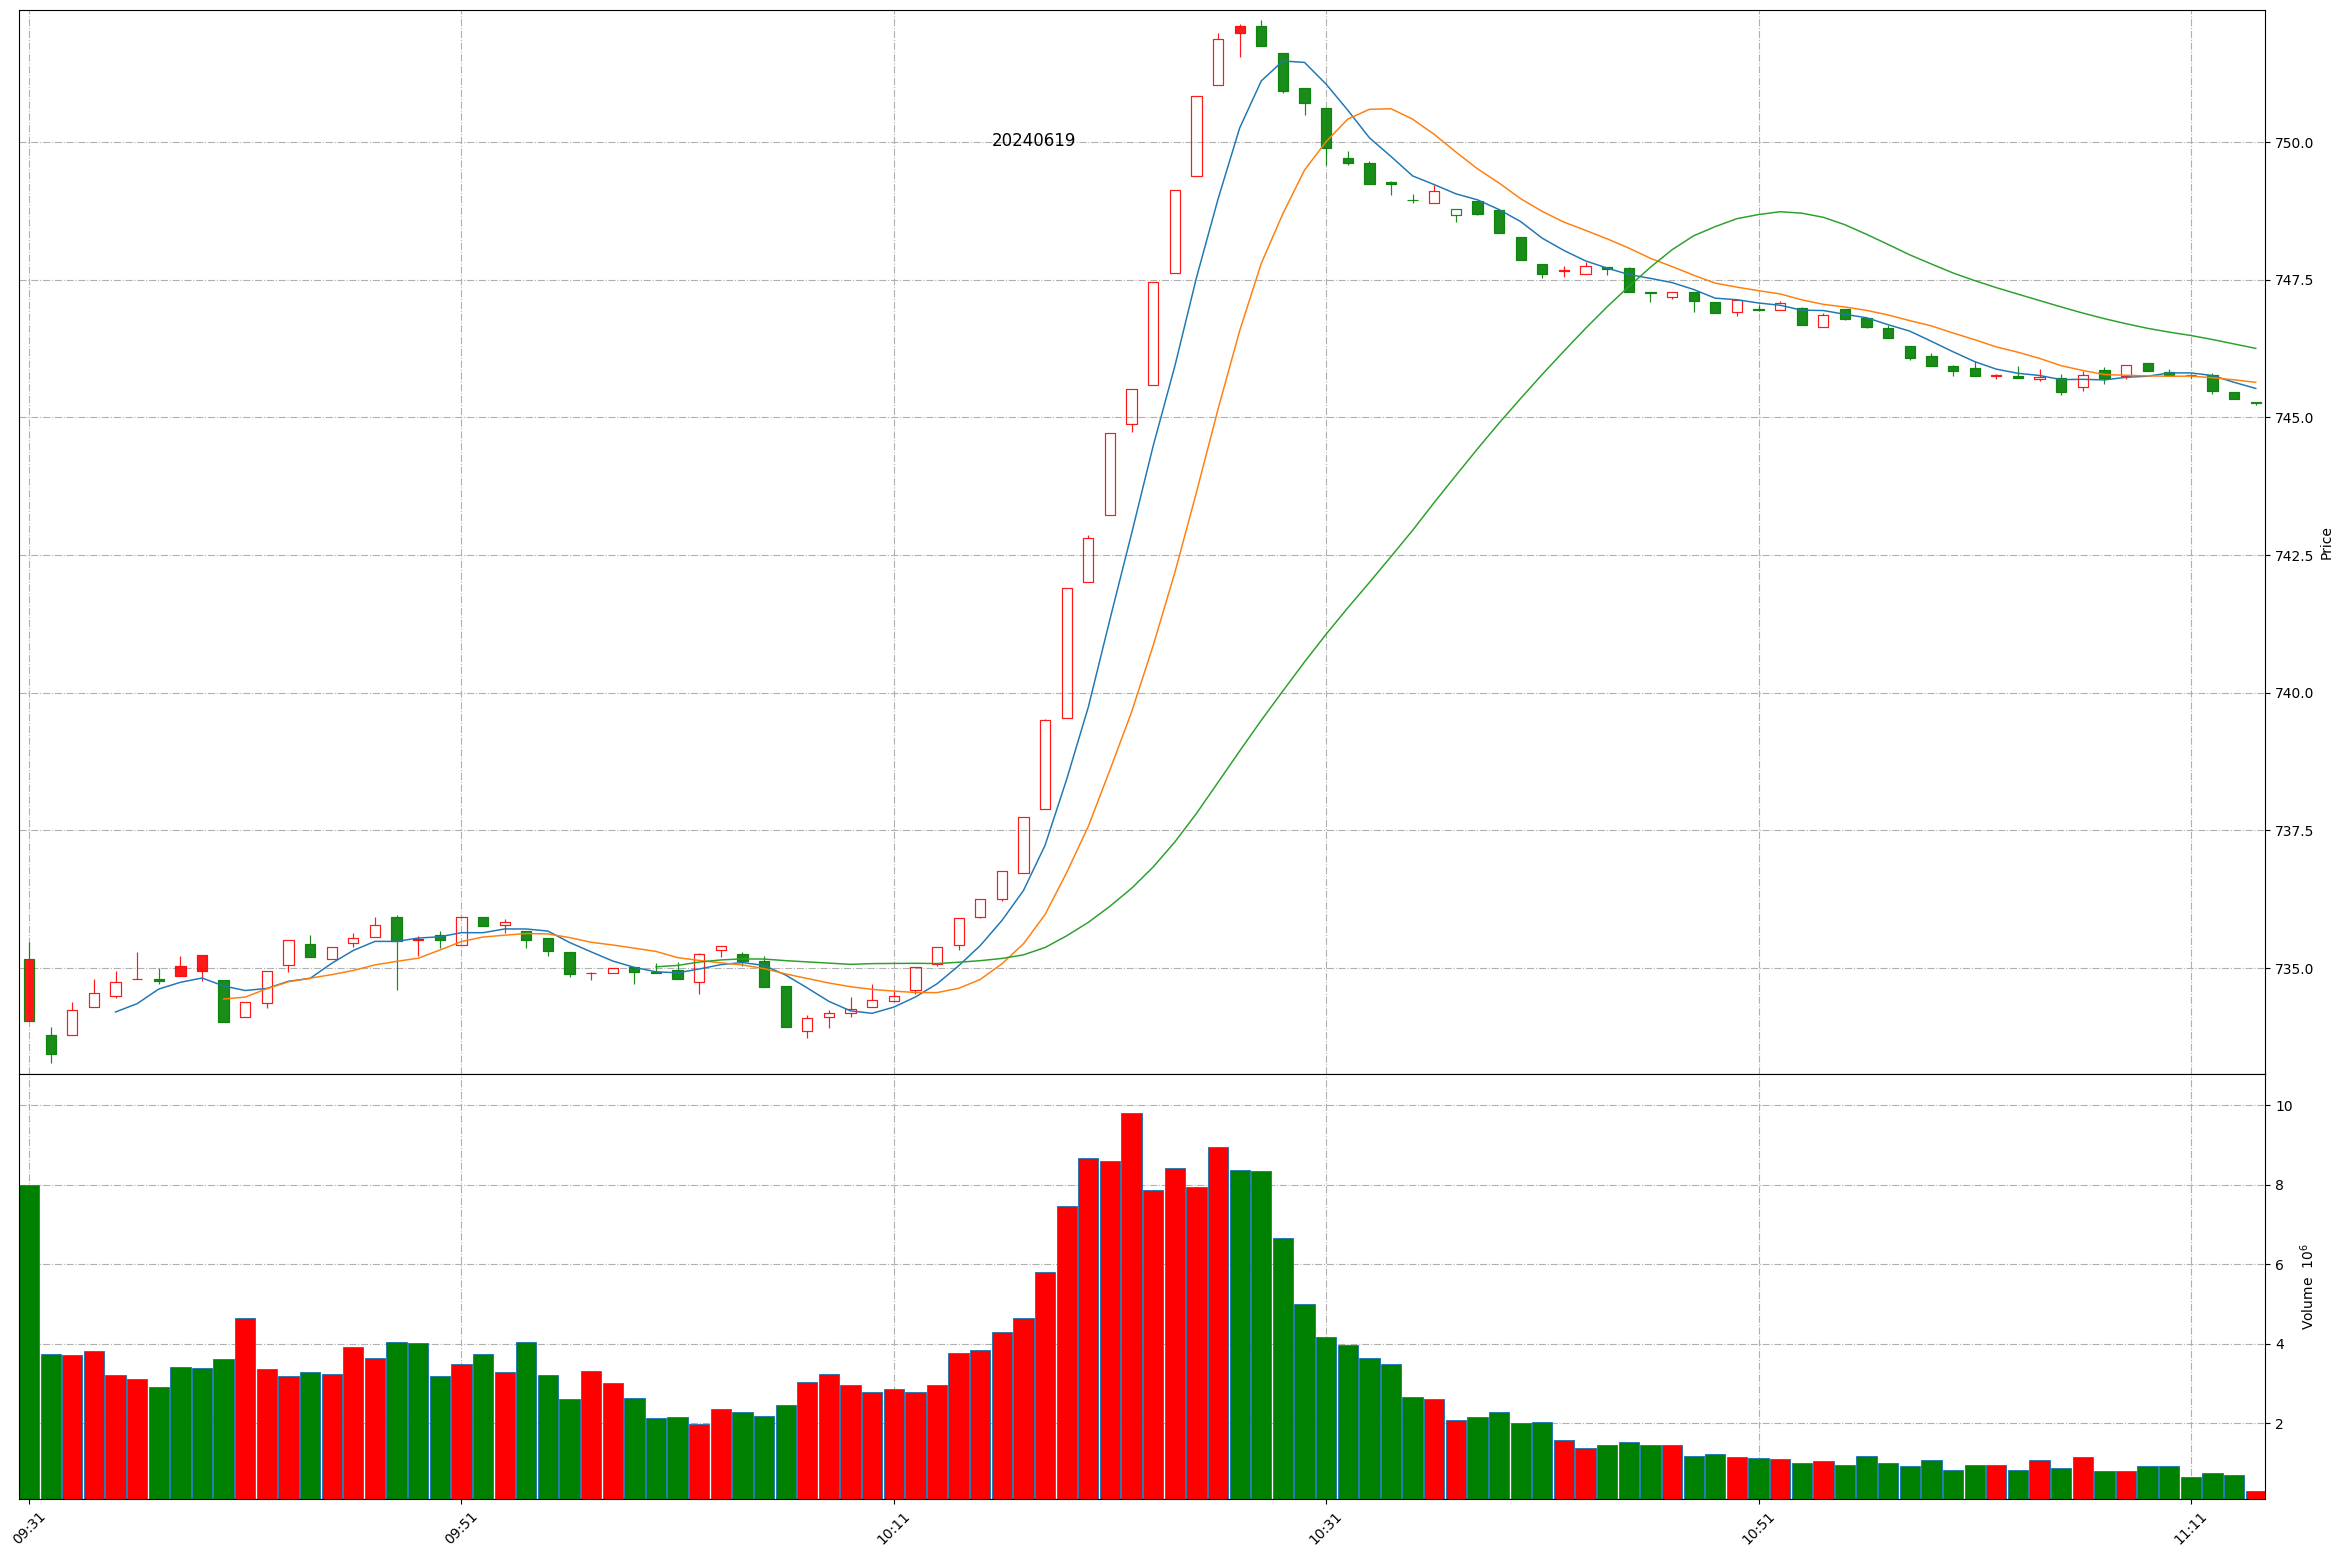
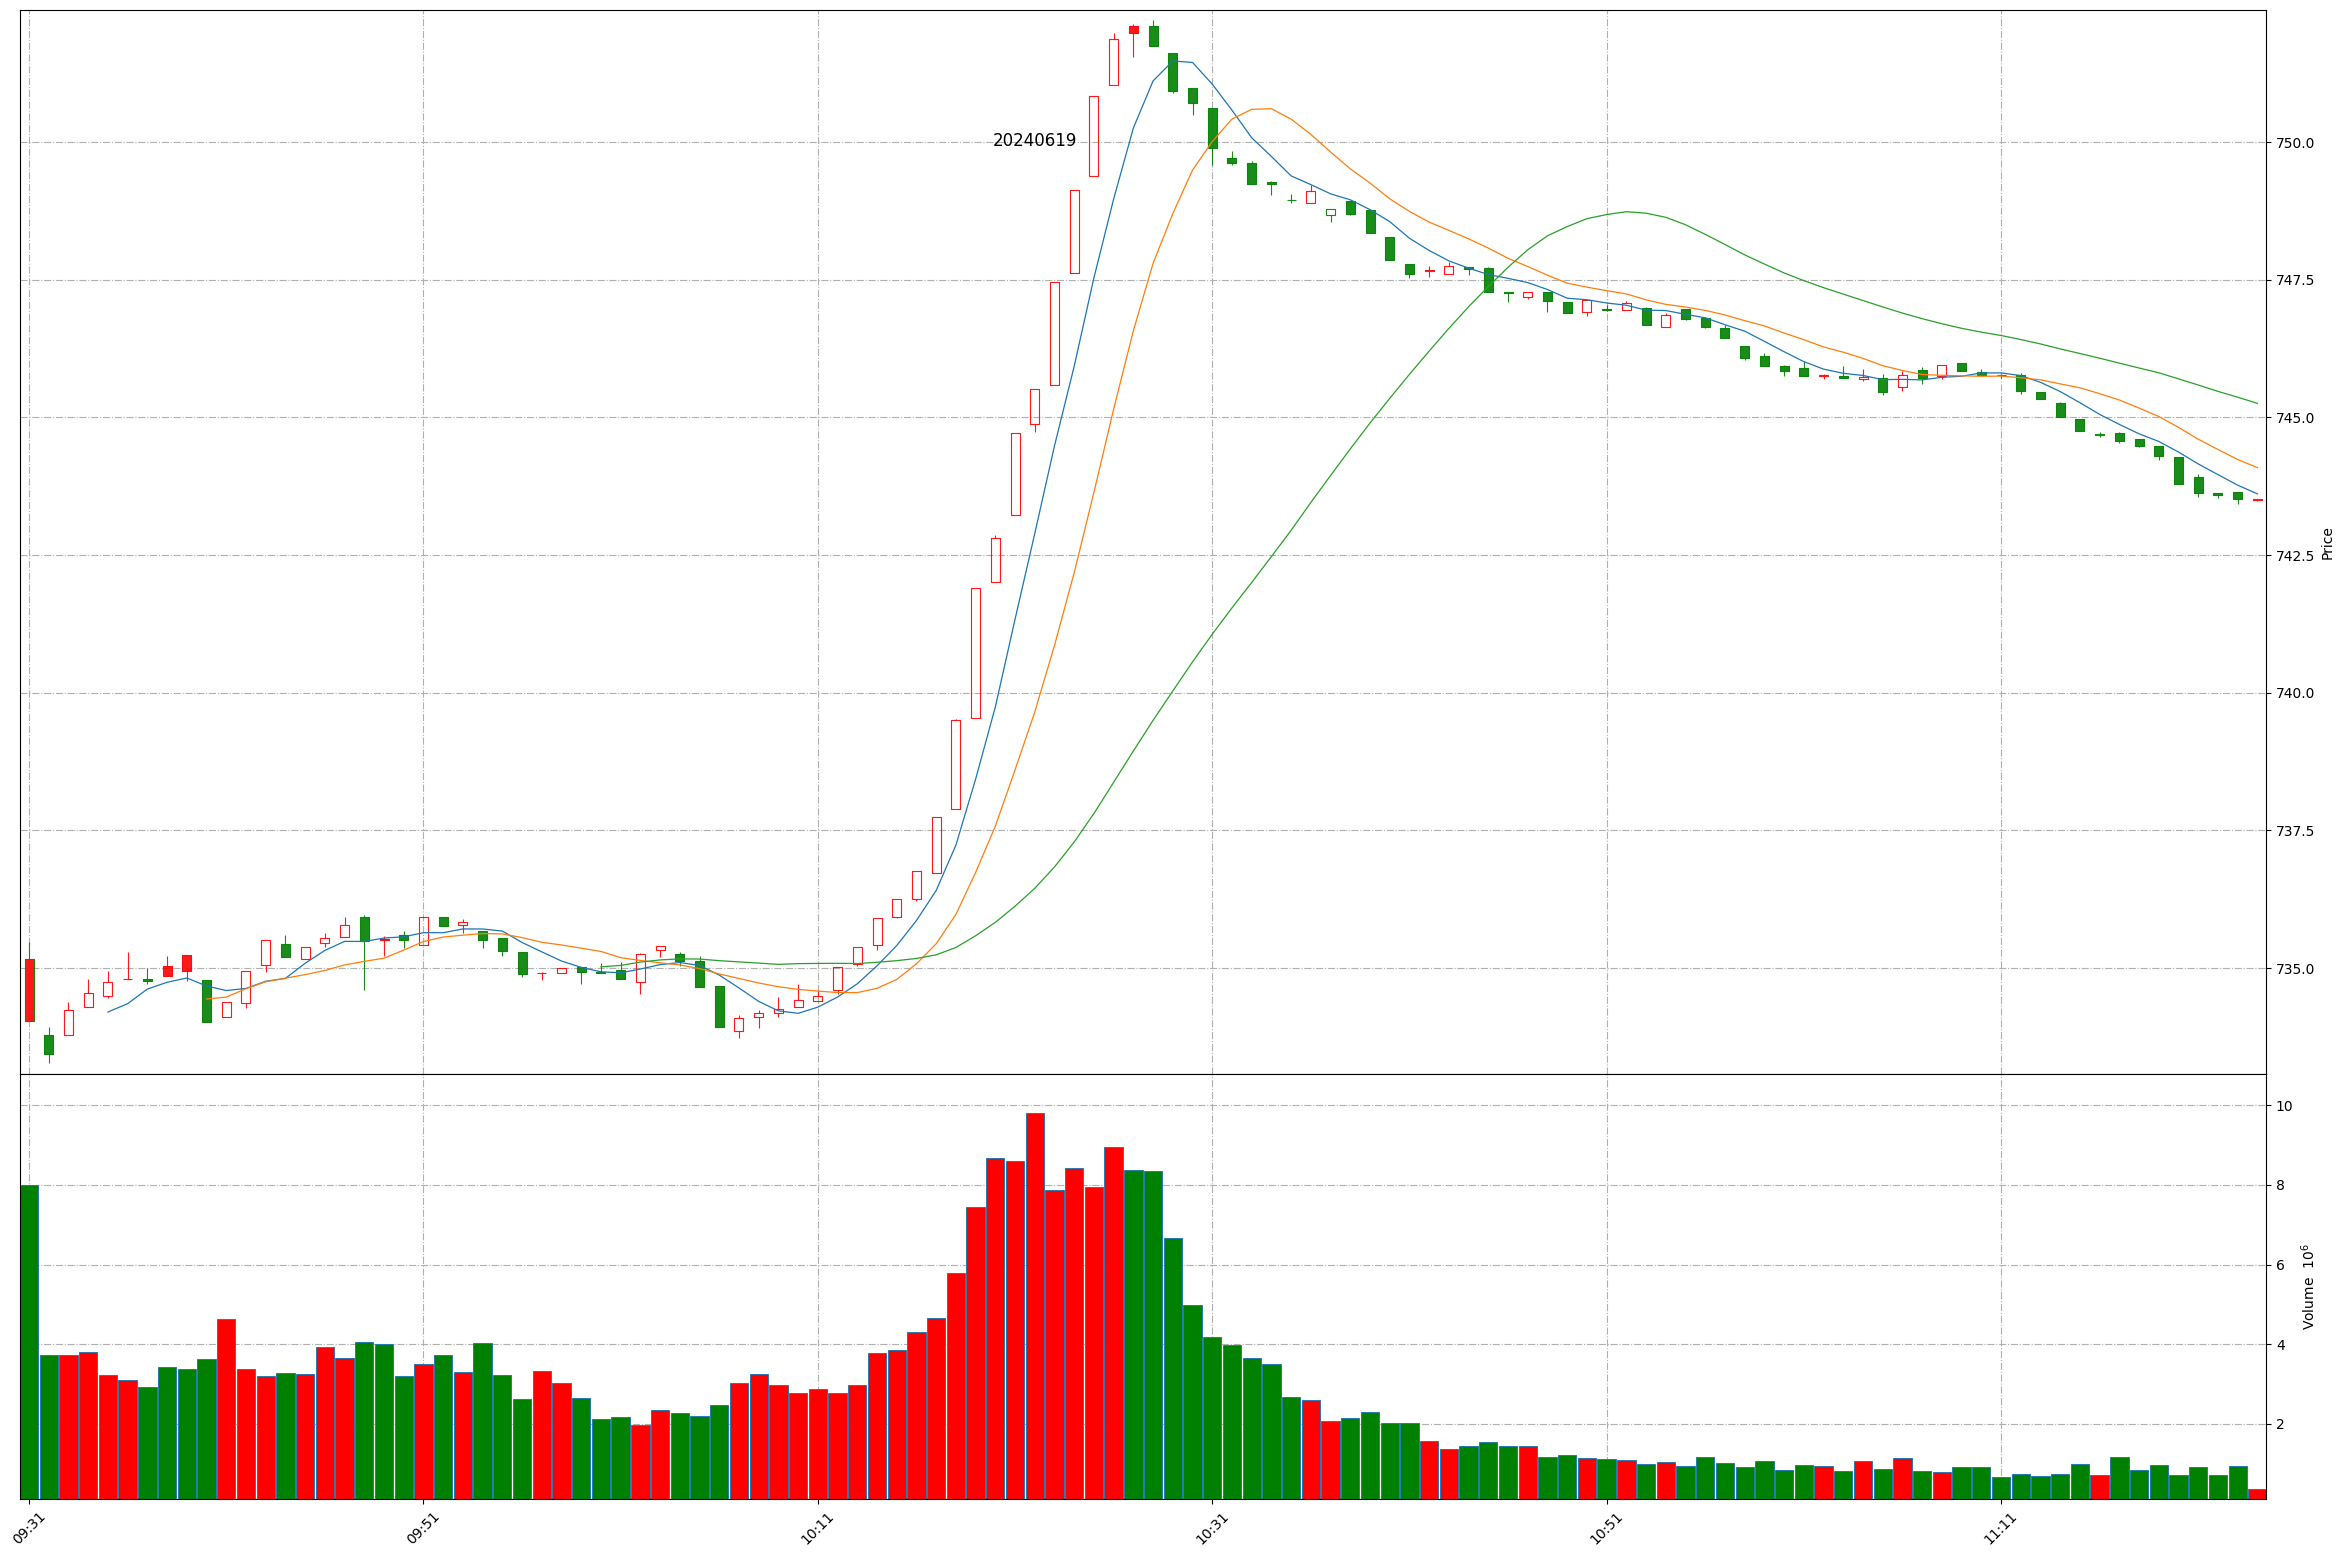
Github action update at 2024-06-19 11:23:35.

diff --git a/README.md b/README.md
@@ -1,11 +1,11 @@
 
 # Daily-A-share-market-quotes 每日 A 股指数（5min 更新）- 20240619
 
-### 上证指数 20240619 11:13
+### 上证指数 20240619 11:23
 ![](./fig/2024/6/20240619-sh000001.png)
 
-### 深证成指 20240619 11:13
+### 深证成指 20240619 11:23
 ![](./fig/2024/6/20240619-sz399001.png)
 
-### 北证50 20240619 11:13
+### 北证50 20240619 11:23
 ![](./fig/2024/6/20240619-bj899050.png)
